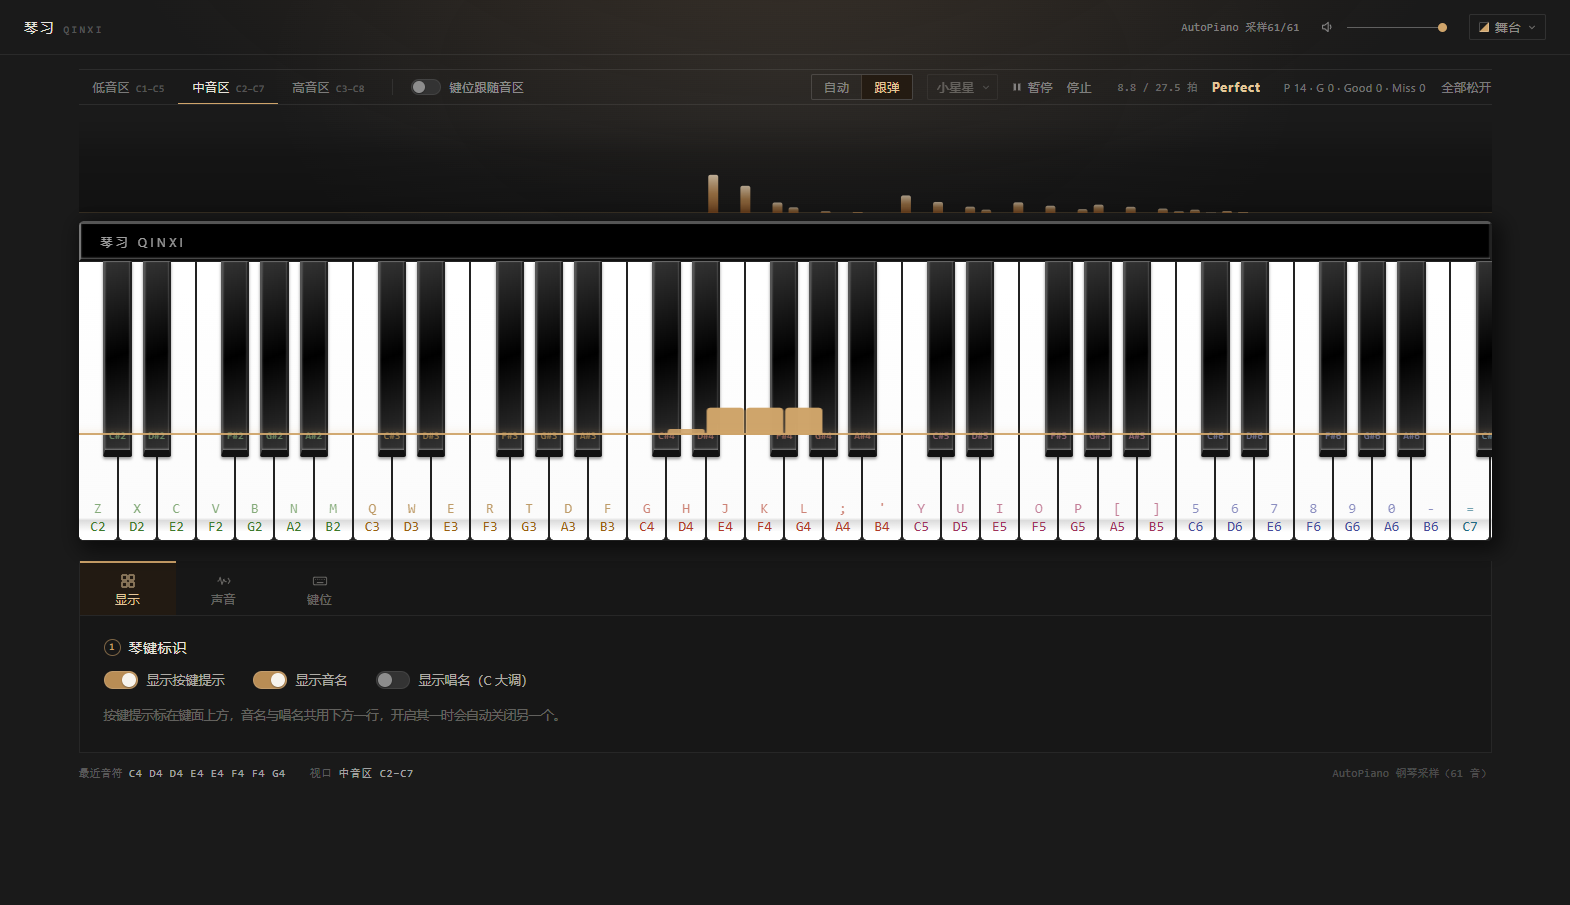
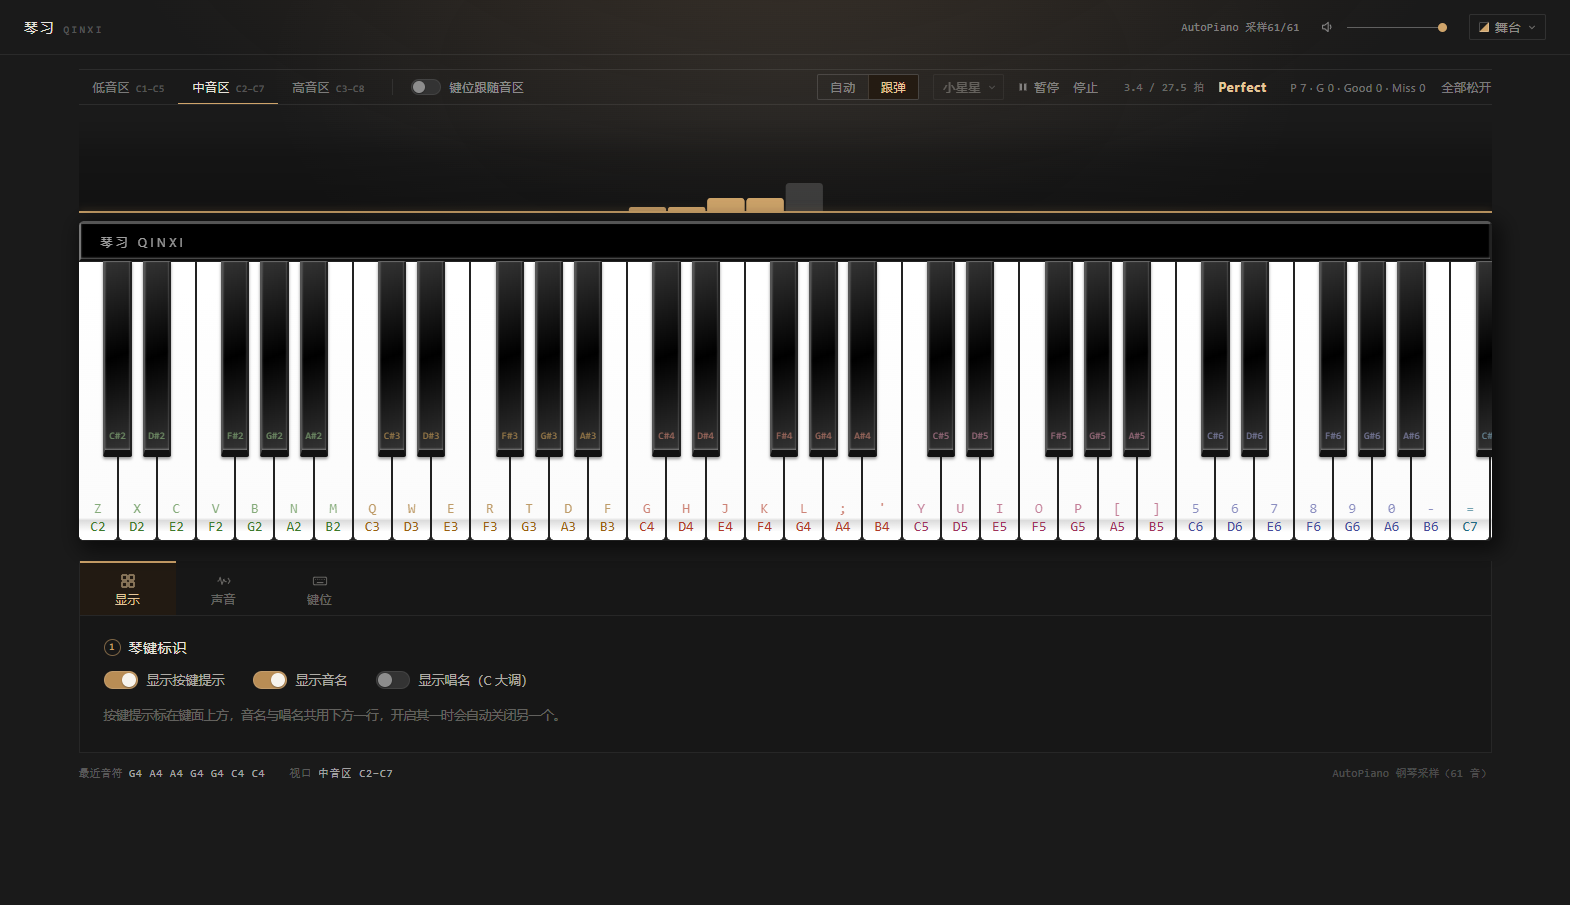
refactor: 下落音符画布挪到钢琴上方频谱带位置，跟弹时替换频谱
- FollowCanvas 从键床内 overlay 改为占据 NoteVisualizer 同一条带（同宽同高，布局不跳动）
- 跟弹播放时 v-if 替换频谱（弹奏反馈柱不再显示），停止/切回自动模式恢复频谱
- x 对齐改为「键床几何 − 键床滚动量」：音区切换、手动滚动都对得上
- 颜色优先区分左右手（NoteEvent.hand：右=强调色 / 左=亮墨），无 hand 回落黑白键区分
- PianoKeyboard 的 overlay 插槽移除（不再需要）
- CDP 实测：.viz 消失、.follow-viz 与钢琴同宽同位、14 音仍全 Perfect

diff --git a/src/components/FollowCanvas.vue b/src/components/FollowCanvas.vue
@@ -1,6 +1,6 @@
 <script setup lang="ts">
 import { onBeforeUnmount, onMounted, ref, watch } from 'vue';
-import { buildKeyboardLayout, WHITE_KEY_COUNT } from '@/keyboard/layout';
+import { buildKeyboardLayout, KEYBED_WIDTH_PERCENT, WHITE_KEY_COUNT } from '@/keyboard/layout';
 import { themeId } from '@/theme/useTheme';
 import type { NoteEvent } from '@/types';
 import type { Grade } from '@/game/judge';
@@ -8,11 +8,11 @@ import type { Grade } from '@/game/judge';
 /**
  * 下落音符画布（Canvas 2D，rAF 逐帧绘制，禁用一切 DOM/CSS 动画）。
  *
- * ## 摆放与坐标
+ * ## 摆放
  *
- * 组件被放进 `PianoKeyboard` 的 `.keybed`（通过 overlay 插槽），绝对定位铺满键床上部 ——
- * 所以它**跟着键床一起横向滚动**，音符的 x 坐标直接用键床几何
- * （`buildKeyboardLayout()`，单位 = 白键宽），和琴键 1:1 对齐，不需要关心视口滚到哪。
+ * 占据钢琴上方「音符频谱」同一条带的位置（跟弹播放时把频谱整体替换掉，
+ * 由 App 控制 v-if / v-else），所以宽度 = 琴键视口宽度（90% 页面宽）。
+ * 音符的 x 坐标按键床几何换算再减去键床的滚动量 —— 音区切换、手动滚动都对得上。
  *
  * ## 时间 → 纵向位置
  *
@@ -24,6 +24,12 @@ import type { Grade } from '@/game/judge';
  *
  * `pxPerBeat = 画布高 / 预备拍数`，预备拍数由固定预备秒数（2s）按 BPM 折算 ——
  * BPM 越高每拍像素越少、下落越快，速度与 BPM 严格匹配。
+ *
+ * ## 颜色
+ *
+ * `NoteEvent.hand` 有左右手信息时：右手 = 主题强调色、左手 = 亮墨色；
+ * 没有 hand 信息（内置谱就没有）→ 回落按黑白键区分：白键 = 强调色、黑键 = 亮墨 + 亮边。
+ * 已判定的音符沉成暗灰，不再抢视线。
  *
  * ## 数据流（低耦合）
  *
@@ -61,9 +67,12 @@ for (const key of buildKeyboardLayout()) {
   geometry.set(key.pitch, { left: key.left, width: key.width, isBlack: key.isBlack });
 }
 
+/** 键床横向滚动容器（.piano-key-wrap）：每帧读 scrollLeft 对齐琴键 */
+let scroller: Element | null = null;
+
 /**
- * 配色跟着外观主题走：白键音符用主题强调色，黑键音符用亮墨色，
- * 判定线用强调色（从 `<html>` 读 CSS 变量，见 src/theme/themes.ts）。
+ * 配色跟着外观主题走（从 `<html>` 读 CSS 变量，见 src/theme/themes.ts）：
+ * 右手 / 白键 = 强调色，左手 / 黑键 = 亮墨色。
  */
 const palette = {
   accent: '207, 164, 106',
@@ -83,12 +92,12 @@ function readPalette(): void {
 function resize(): void {
   const canvas = canvasRef.value;
   if (!canvas) return;
-  const dpr = window.devicePixelRatio || 1;
+  const dpr = Math.min(window.devicePixelRatio || 1, 2);
   const width = canvas.clientWidth;
   const height = canvas.clientHeight;
   if (width === 0 || height === 0) return;
-  canvas.width = Math.round(width * dpr);
-  canvas.height = Math.round(height * dpr);
+  canvas.width = Math.max(1, Math.round(width * dpr));
+  canvas.height = Math.max(1, Math.round(height * dpr));
   ctx = canvas.getContext('2d');
   ctx?.setTransform(dpr, 0, 0, dpr, 0, 0);
   draw();
@@ -103,7 +112,9 @@ function draw(): void {
 
   ctx.clearRect(0, 0, width, height);
   const lineY = height;
-  const unit = width / WHITE_KEY_COUNT;
+  // 键床 px 宽 = 视口宽 × 144.3%；1 白键 = 键床宽 / 52
+  const unit = (width * KEYBED_WIDTH_PERCENT) / 100 / WHITE_KEY_COUNT;
+  const scrollLeft = scroller?.scrollLeft ?? 0;
   const pxPerBeat = height / ((LEAD_SECONDS * props.bpm) / 60);
   const beat = props.getBeat();
 
@@ -118,20 +129,26 @@ function draw(): void {
     // 已经过线太远（正在被按住 / 已经判定完沉底）的不用再画
     if (yTopRaw > lineY + 4 || yBottom < -40) continue;
 
-    const x = geo.left * unit;
+    const x = geo.left * unit - scrollLeft;
     const w = geo.width * unit;
+    if (x + w < 0 || x > width) continue; // 滚出视口的键不画
+
     const yTop = Math.max(0, yTopRaw);
     const h = Math.max(MIN_HEIGHT_PX, yBottom - Math.min(yTop, lineY));
     const judgedGrade = props.judged.get(index);
 
+    // 左右手优先；谱面没写 hand 时按黑白键区分
+    let fill: string;
     if (judgedGrade) {
-      // 已判定：沉成暗灰，不再抢视线
-      ctx.fillStyle = `rgba(${palette.white}, 0.16)`;
-    } else if (geo.isBlack) {
-      ctx.fillStyle = `rgba(${palette.ink}, 0.88)`;
+      fill = `rgba(${palette.white}, 0.16)`;
+    } else if (item.hand === 'left') {
+      fill = `rgba(${palette.ink}, 0.88)`;
+    } else if (item.hand === 'right' || !geo.isBlack) {
+      fill = `rgba(${palette.accent}, 0.9)`;
     } else {
-      ctx.fillStyle = `rgba(${palette.accent}, 0.9)`;
+      fill = `rgba(${palette.ink}, 0.88)`;
     }
+    ctx.fillStyle = fill;
 
     // 顶部圆角矩形：贴判定线的底边是平的（齐线落键的观感）
     const radius = Math.min(4, h / 2);
@@ -145,8 +162,8 @@ function draw(): void {
     ctx.closePath();
     ctx.fill();
 
-    // 黑键音符描一圈亮边，和白键块区分得更清楚
-    if (geo.isBlack && !judgedGrade) {
+    // 黑键音符（无 hand 回落时）描一圈亮边，和白键块区分得更清楚
+    if (!item.hand && geo.isBlack && !judgedGrade) {
       ctx.strokeStyle = `rgba(${palette.white}, 0.5)`;
       ctx.lineWidth = 1;
       ctx.stroke();
@@ -198,6 +215,7 @@ watch(themeId, () => {
 
 onMounted(() => {
   readPalette();
+  scroller = document.querySelector('.piano-key-wrap');
   resize();
   resizeObserver = new ResizeObserver(() => resize());
   if (canvasRef.value) resizeObserver.observe(canvasRef.value);
@@ -208,23 +226,39 @@ onBeforeUnmount(() => {
   stopLoop();
   resizeObserver?.disconnect();
   resizeObserver = null;
+  scroller = null;
 });
 </script>
 
 <template>
-  <canvas ref="canvasRef" class="follow-canvas" aria-hidden="true"></canvas>
+  <div class="follow-viz" aria-hidden="true">
+    <canvas ref="canvasRef" class="follow-viz__canvas"></canvas>
+  </div>
 </template>
 
 <style scoped>
-/* 绝对定位铺满键床上部：跟键床一起横向滚动，坐标与琴键 1:1。
-   pointer-events 必须关掉 —— 底下是可点的琴键。 */
-.follow-canvas {
-  position: absolute;
-  top: 0;
-  left: 0;
-  width: 100%;
-  height: 62%;
-  z-index: 3;
+/* 与音符频谱（NoteVisualizer .viz）同一条带：同宽同高，替换时布局不跳动 */
+.follow-viz {
+  width: 90%;
+  height: 96px;
+  margin: 12px auto -12px;
   pointer-events: none;
+  background: linear-gradient(180deg, rgba(0, 0, 0, 0.12), rgba(0, 0, 0, 0.34));
+  /* 顶部渐隐，音符冲进顶端不会撞出一条硬边 */
+  mask-image: linear-gradient(to top, rgba(0, 0, 0, 1) 62%, rgba(0, 0, 0, 0) 100%);
+  -webkit-mask-image: linear-gradient(to top, rgba(0, 0, 0, 1) 62%, rgba(0, 0, 0, 0) 100%);
+}
+
+.follow-viz__canvas {
+  display: block;
+  width: 100%;
+  height: 100%;
+}
+
+@media (max-width: 820px) {
+  .follow-viz {
+    width: 92%;
+    height: 84px;
+  }
 }
 </style>

diff --git a/src/App.vue b/src/App.vue
@@ -732,7 +732,16 @@ onBeforeUnmount(() => {
         </div>
       </div>
 
-      <NoteVisualizer ref="visualizer" />
+      <!-- 跟弹播放时：下落音符画布替换音符频谱（弹奏反馈）；其余情况显示频谱 -->
+      <FollowCanvas
+        v-if="playMode === 'follow' && playState !== 'idle'"
+        :notes="currentNotesRef"
+        :judged="judgedMap"
+        :get-beat="() => transport.rawBeat"
+        :playing="playState === 'playing'"
+        :bpm="followBpm"
+      />
+      <NoteVisualizer v-else ref="visualizer" />
 
       <PianoKeyboard
         :pressed="combinedPressed"
@@ -744,18 +753,7 @@ onBeforeUnmount(() => {
         :edit-pitch="editPitch"
         @press="pressPitch"
         @release="releasePitch"
-      >
-        <template #overlay>
-          <FollowCanvas
-            v-if="playMode === 'follow' && playState !== 'idle'"
-            :notes="currentNotesRef"
-            :judged="judgedMap"
-            :get-beat="() => transport.rawBeat"
-            :playing="playState === 'playing'"
-            :bpm="followBpm"
-          />
-        </template>
-      </PianoKeyboard>
+      />
 
       <ControlDeck
         v-model:tab="deckTab"

diff --git a/src/components/PianoKeyboard.vue b/src/components/PianoKeyboard.vue
@@ -123,8 +123,6 @@ defineExpose({ scrollToViewport });
 
     <div ref="viewportRef" class="piano-key-wrap">
       <div class="keybed" :style="{ width: `${KEYBED_WIDTH_PERCENT}%` }">
-        <!-- 跟弹模式的下落音符画布挂在这里：随键床滚动，与琴键坐标对齐 -->
-        <slot name="overlay" />
         <button
           v-for="key in whiteKeys"
           :key="key.pitch"

diff --git a/README.md b/README.md
@@ -210,9 +210,11 @@ docs/screenshots/  界面截图（PR 用）
   超出 Good 窗口的乱按不消耗音符——音符留给漏按清扫，防止「提前一秒乱按吃掉还没落下的音」。
 - **漏按清扫**：渲染循环每帧跑 `collectMissed`，窗口已过还没判的音记 Miss；停止 / 播完时也补扫一次。
 - **下落画布**：`FollowCanvas.vue` 用 Canvas 2D + rAF 逐帧绘制（无任何 DOM/CSS 动画），
-  挂在键床内随其横向滚动，音符 x 坐标与琴键 1:1 对齐；判定线在画布底边（键盘顶部）。
-  `pxPerBeat = 画布高 / 预备拍数`，预备秒数固定 2s 按 BPM 折算——**BPM 越高下落越快**。
-  音符颜色区分黑白键（白键 = 主题强调色，黑键 = 亮墨色 + 亮边），已判定的沉成暗灰。
+  占据钢琴上方**音符频谱同一条带**——跟弹播放时把频谱（弹奏反馈）整体替换掉，停止后恢复频谱。
+  音符 x 坐标按键床几何换算再减去键床滚动量，与琴键横向对齐（音区切换 / 手动滚动都对得上）；
+  判定线在画布底边（键盘顶部）。`pxPerBeat = 画布高 / 预备拍数`，预备秒数固定 2s 按 BPM 折算——
+  **BPM 越高下落越快**。颜色优先区分左右手（`NoteEvent.hand`：右手 = 主题强调色、左手 = 亮墨色），
+  谱面没有 hand 信息时回落按黑白键区分（黑键块加亮边），已判定的沉成暗灰。
 - 判定结果同步打到控制台：`[琴习·判定] Perfect C4 Δ-12ms` / `MISS（错音）` / `MISS（漏按）@8.5拍`，
   控制栏 HUD 显示最近判定与四档计数。
 
